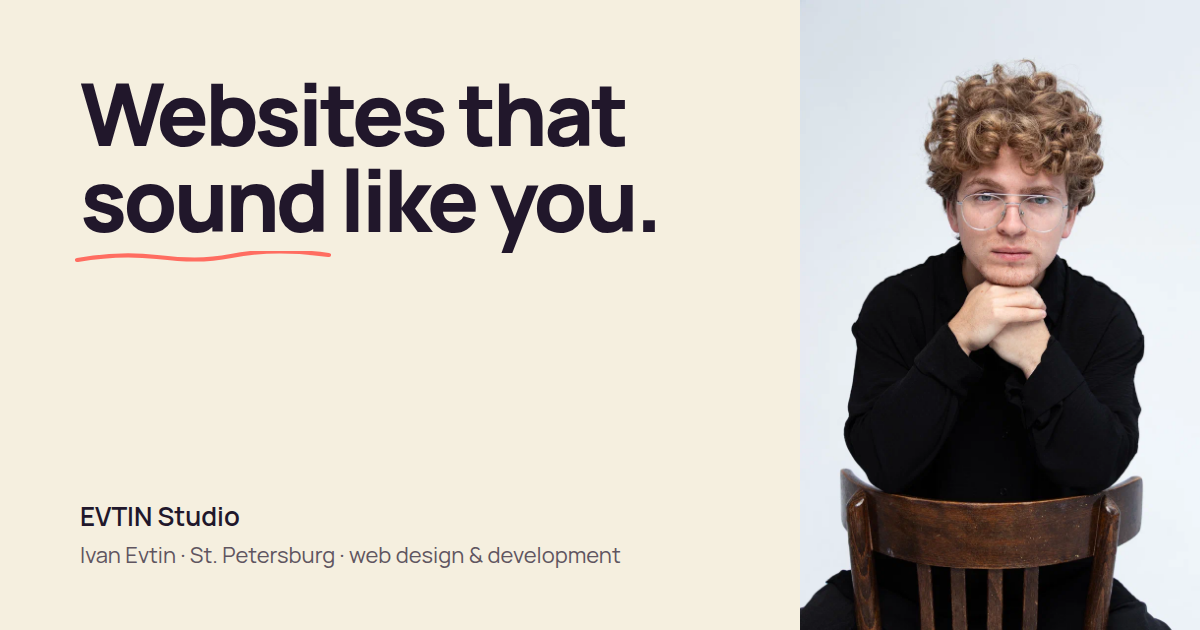
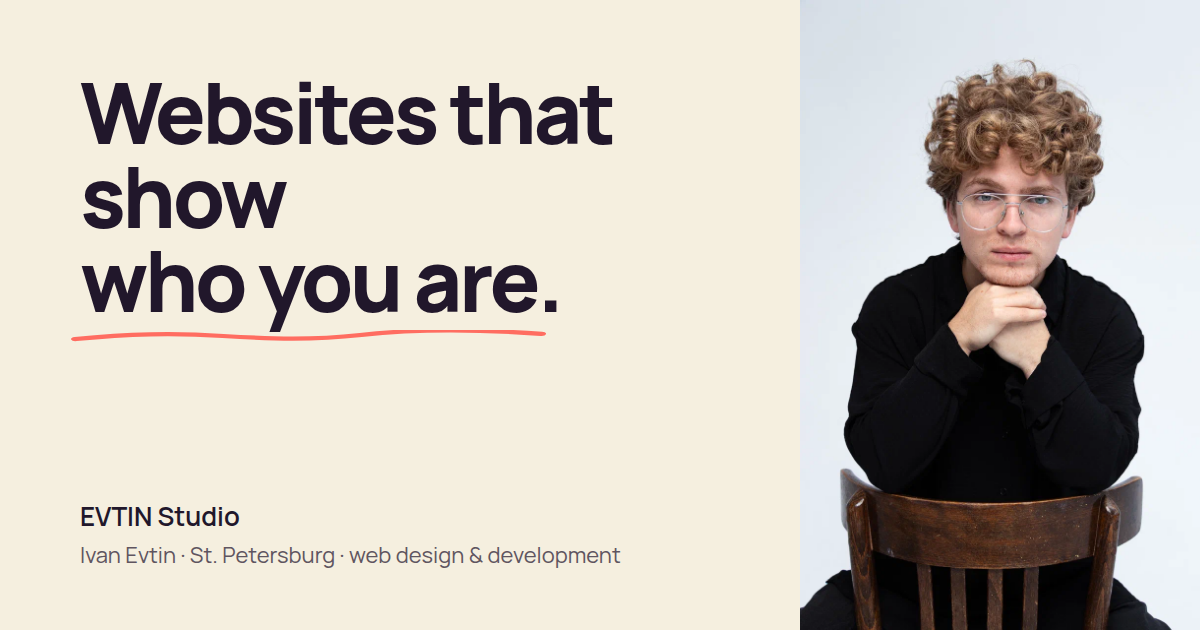
fix(copy): new hero line, plain musician line, «Смотреть работы»
Hero «Сайты, по которым сразу понятно, кто вы» / "Websites that show who
you are" replaces «звучат как вы» (Ivan: sounds unnatural). Musician line
is Ivan's: «Также я музыкант — поющий пианист». Shopping centres removed.
OG image, CLAUDE.md and HANDOFF updated.

Claude-Session: https://claude.ai/code/session_013nKPEujBUBLhoQc3pxbLML

Changed region(s): [[0.0617, 0.2714, 0.555, 0.5429], [0.0925, 0.1206, 0.5242, 0.2413]]

diff --git a/script.js b/script.js
@@ -5,10 +5,10 @@ en:{
 "nav.skip":"Skip to content","nav.aria":"Main menu","nav.burger":"Menu",
 "nav.work":"Work","nav.pricing":"Prices","nav.about":"About","nav.contact":"Message me",
 "hero.date":"St. Petersburg, October 2026",
-"hero.title":"Websites that <span class=\"scrib\">sound</span> like you.",
-"hero.p1":"Hi, I'm Ivan Evtin. I make websites for people and small brands. I want someone to open your site and understand within a minute who you are and why they should write to you, not someone else.",
-"hero.p2":"I'm also a musician. I sing and play piano at the same time, at restaurants, shopping centres and private events. That's where the \"sound\" in the headline comes from.",
-"hero.cta":"Message me","hero.link":"See what I've made",
+"hero.title":"Websites that show <span class=\"scrib\">who you are</span>.",
+"hero.p1":"Hi, I'm Ivan Evtin. I make websites for people and small brands. I want someone to open your site and see within a minute why they should write to you, not someone else.",
+"hero.p2":"I'm also a musician: a singing pianist.",
+"hero.cta":"Message me","hero.link":"See my work",
 "hero.price":"Landing page from <span data-eur=\"300\" data-rub=\"30000\">€300</span>, full website from <span data-eur=\"500\" data-rub=\"50000\">€500</span>.",
 "hero.alt":"Ivan Evtin, web designer and developer",
 "hero.cap":"That's me. Yes, the curls are real.",
@@ -39,7 +39,7 @@ en:{
 "process.note":"A landing page usually takes 2–3 weeks, a full site 4–6. It goes fastest when the copy and photos are ready in advance.",
 "about.title":"A bit about me",
 "about.alt":"Ivan Evtin sitting on the floor next to a chair",
-"about.one":"I live in St. Petersburg. I sing and play piano at the same time, and I perform at restaurants, shopping centres and private events. I'm easy to spot: curly hair and white glasses.",
+"about.one":"I live in St. Petersburg. I sing and play piano at the same time, and I perform at restaurants and private events. I'm easy to spot: curly hair and white glasses.",
 "about.two":"I make websites the way I make songs: the main thing goes first, anything extra goes.",
 "about.three":"EVTIN Studio is just me. You talk to me about the job, and I'm the one who does it. If something goes wrong, I'm the one who answers for it too.",
 "about.now":"<strong>Right now:</strong> launching the studio and taking on my first projects.",
@@ -66,10 +66,10 @@ ru:{
 "nav.skip":"К содержанию","nav.aria":"Главное меню","nav.burger":"Меню",
 "nav.work":"Работы","nav.pricing":"Цены","nav.about":"Обо мне","nav.contact":"Написать мне",
 "hero.date":"Петербург, октябрь 2026",
-"hero.title":"Сайты, которые <span class=\"scrib\">звучат</span> как вы.",
-"hero.p1":"Привет, я Иван Евтин. Делаю сайты для людей и небольших брендов. Хочу, чтобы человек открыл ваш сайт и за минуту понял, кто вы и почему стоит написать именно вам.",
-"hero.p2":"Ещё я музыкант: пою и играю на пианино одновременно, выступаю в ресторанах, торговых центрах и на частных мероприятиях. Отсюда и «звучат» в заголовке.",
-"hero.cta":"Написать мне","hero.link":"Посмотреть, что я сделал",
+"hero.title":"Сайты, по которым сразу понятно, <span class=\"scrib\">кто вы</span>.",
+"hero.p1":"Привет, я Иван Евтин. Делаю сайты для людей и небольших брендов. Хочу, чтобы человек открыл ваш сайт и за минуту понял, почему написать стоит именно вам.",
+"hero.p2":"Также я музыкант — поющий пианист.",
+"hero.cta":"Написать мне","hero.link":"Смотреть работы",
 "hero.price":"Лендинг от <span data-eur=\"300\" data-rub=\"30000\">30 000 ₽</span>, сайт от <span data-eur=\"500\" data-rub=\"50000\">50 000 ₽</span>.",
 "hero.alt":"Иван Евтин, веб-дизайнер и разработчик",
 "hero.cap":"Это я. Да, кудри настоящие.",
@@ -100,7 +100,7 @@ ru:{
 "process.note":"Лендинг обычно занимает 2–3 недели, сайт 4–6. Быстрее всего, когда тексты и фото готовы заранее.",
 "about.title":"Немного обо мне",
 "about.alt":"Иван Евтин сидит на полу рядом со стулом",
-"about.one":"Я живу в Петербурге. Пою и играю на пианино одновременно, выступаю в ресторанах, торговых центрах и на частных мероприятиях. Узнать меня легко: кудри и белые очки.",
+"about.one":"Я живу в Петербурге. Пою и играю на пианино одновременно, выступаю в ресторанах и на частных мероприятиях. Узнать меня легко: кудри и белые очки.",
 "about.two":"Сайты делаю так же, как песни: главное — в начало, лишнее — убрать.",
 "about.three":"EVTIN Studio — это я. Задачу вы обсуждаете со мной, и делаю её тоже я. Если что-то пойдёт не так, отвечаю я.",
 "about.now":"<strong>Сейчас:</strong> запускаю студию и беру первые проекты.",

diff --git a/index.html b/index.html
@@ -5,7 +5,7 @@
 <meta name="description" content="Independent web design studio of Ivan Evtin. Landing pages from €300, multi-page websites from €500. I do everything myself, from structure to code.">
 <meta name="theme-color" content="#21172b">
 <meta property="og:type" content="website"><meta property="og:site_name" content="EVTIN Studio"><meta property="og:locale" content="en_US"><meta property="og:locale:alternate" content="ru_RU"><meta property="og:title" content="EVTIN Studio — Ivan Evtin"><meta property="og:description" content="Distinctive websites for people and small brands. Strategy, design and code by one person."><meta property="og:url" content="https://evtinstudio.netlify.app/">
-<meta property="og:image" content="https://evtinstudio.netlify.app/assets/og.png"><meta property="og:image:width" content="1200"><meta property="og:image:height" content="630"><meta property="og:image:alt" content="EVTIN Studio: Websites that sound like you. Ivan Evtin, web design and development">
+<meta property="og:image" content="https://evtinstudio.netlify.app/assets/og.png"><meta property="og:image:width" content="1200"><meta property="og:image:height" content="630"><meta property="og:image:alt" content="EVTIN Studio: Websites that show who you are. Ivan Evtin, web design and development">
 <meta name="twitter:card" content="summary_large_image"><meta name="twitter:image" content="https://evtinstudio.netlify.app/assets/og.png">
 <link rel="canonical" href="https://evtinstudio.netlify.app/">
 <title>EVTIN Studio — Web Design &amp; Landing Pages by Ivan Evtin</title>
@@ -31,10 +31,10 @@
 <section class="intro">
 <div class="intro-text">
 <p class="dateline" data-i18n="hero.date">St. Petersburg, October 2026</p>
-<h1 data-i18n="hero.title">Websites that <span class="scrib">sound</span> like you.</h1>
-<p class="lead" data-i18n="hero.p1">Hi, I'm Ivan Evtin. I make websites for people and small brands. I want someone to open your site and understand within a minute who you are and why they should write to you, not someone else.</p>
-<p data-i18n="hero.p2">I'm also a musician. I sing and play piano at the same time, at restaurants, shopping centres and private events. That's where the "sound" in the headline comes from.</p>
-<p class="actions"><a class="btn" href="#contact" data-i18n="hero.cta">Message me</a><a class="textlink" href="#work" data-i18n="hero.link">See what I've made</a></p>
+<h1 data-i18n="hero.title">Websites that show <span class="scrib">who you are</span>.</h1>
+<p class="lead" data-i18n="hero.p1">Hi, I'm Ivan Evtin. I make websites for people and small brands. I want someone to open your site and see within a minute why they should write to you, not someone else.</p>
+<p data-i18n="hero.p2">I'm also a musician: a singing pianist.</p>
+<p class="actions"><a class="btn" href="#contact" data-i18n="hero.cta">Message me</a><a class="textlink" href="#work" data-i18n="hero.link">See my work</a></p>
 <p class="price-line" data-i18n="hero.price">Landing page from <span data-eur="300" data-rub="30000">€300</span>, full website from <span data-eur="500" data-rub="50000">€500</span>.</p>
 </div>
 <figure class="intro-photo">
@@ -91,7 +91,7 @@
 <figure class="about-photo"><img src="assets/ivan-02.webp" alt="Ivan Evtin sitting on the floor next to a chair" data-i18n-alt="about.alt" width="853" height="1280" loading="lazy"></figure>
 <div class="about-text">
 <h2 data-i18n="about.title">A bit about me</h2>
-<p data-i18n="about.one">I live in St. Petersburg. I sing and play piano at the same time, and I perform at restaurants, shopping centres and private events. I'm easy to spot: curly hair and white glasses.</p>
+<p data-i18n="about.one">I live in St. Petersburg. I sing and play piano at the same time, and I perform at restaurants and private events. I'm easy to spot: curly hair and white glasses.</p>
 <p data-i18n="about.two">I make websites the way I make songs: the main thing goes first, anything extra goes.</p>
 <p data-i18n="about.three">EVTIN Studio is just me. You talk to me about the job, and I'm the one who does it. If something goes wrong, I'm the one who answers for it too.</p>
 <p class="now" data-i18n="about.now"><strong>Right now:</strong> launching the studio and taking on my first projects.</p>

diff --git a/styles.css b/styles.css
@@ -32,7 +32,7 @@ h2{font-size:clamp(32px,4.2vw,54px);letter-spacing:-.03em;margin-bottom:28px}
 .btn:hover{background:#3a2c47}
 
 .intro{display:grid;grid-template-columns:minmax(0,1.3fr) minmax(0,.7fr);gap:6vw;align-items:center;padding-top:clamp(32px,4vw,64px);padding-bottom:clamp(64px,8vw,120px);max-width:1440px;margin:0 auto}
-.intro h1{font-size:clamp(44px,6.4vw,92px);letter-spacing:-.04em;line-height:1;max-width:11ch;margin:6px 0 36px}
+.intro h1{font-size:clamp(40px,5.6vw,84px);letter-spacing:-.04em;line-height:1;max-width:13ch;margin:6px 0 36px}
 .scrib{position:relative;white-space:nowrap}
 .scrib::after{content:"";position:absolute;left:-2%;right:-2%;bottom:-.08em;height:.16em;background:var(--scrib) center/100% 100% no-repeat}
 .intro p{max-width:34em}

diff --git a/CLAUDE.md b/CLAUDE.md
@@ -39,7 +39,7 @@
 - Файлы: `index.html` / `styles.css` / `script.js` — главная; `concept-noir`, `concept-0642`, `concept-atelier07` (.html + .i18n.js + .js) — три концепта; общие `concept.css` / `concept.js`; шрифты лежат локально в `fonts/`; заголовки безопасности и CSP — в `netlify.toml`.
 - Перед работой прочитай `HANDOFF.md`, `README.md` и `docs/ivan-profile.md`. Полный разбор блога лежит в `docs/ivan-blog-review.md`, кит для Instagram — в `docs/instagram/README.md`. В конце сессии обнови `HANDOFF.md`.
 - Сайт по умолчанию на английском, русский включается переключателем RU/EN.
-- Позиционирование: «независимая студия с агентским мышлением, без агентских накладных расходов». Hero: «Websites that sound like you» / «Сайты, которые звучат как вы». Один реальный кейс плюс три концепта с пометкой Concept 01–03.
+- Позиционирование: «независимая студия с агентским мышлением, без агентских накладных расходов». Hero (Иван, 21.10.2026: старый «Сайты, которые звучат как вы» звучит неестественно): «Websites that show who you are» / «Сайты, по которым сразу понятно, кто вы». Один реальный кейс плюс три концепта с пометкой Concept 01–03.
 - Палитра студии: plum #21172b, paper #f5efdf, lime #b9ff73, coral #ff6d61; шрифты Manrope + DM Mono. Палитру музыканта (чёрный/белый/графит + красный, розовый, горчичный; винтажный коллаж) со студией не смешивать.
 
 ## Неизменные факты

diff --git a/HANDOFF.md b/HANDOFF.md
@@ -99,6 +99,7 @@ Ivan's brief: «пересобрать мой сайт, чтобы он выгл
 - Palette and fonts kept (plum/paper/lime/coral, Manrope); DM Mono is no longer used on the home page. Lime is used as a highlighter, coral only for the hand-drawn marks; coral-ink #b23a2e for link underlines (contrast).
 - Copy: first person, «вы», plain words; Ivan's own lines kept verbatim (hero, concept descriptions, «Сайты делаю так же, как песни…»). Facts only from CLAUDE.md/profile/musician site (Avito reviews are on evtinivan.netlify.app).
 - Checks: Playwright 5 pages × 320/375/768/1440 × EN/RU with production CSP, no overflow/JS errors; Lighthouse home mobile 99/100/100/100, desktop 100/100/100/100; ECC code-reviewer (no critical), ECC a11y (fixed: link underline contrast, input borders, FAQ +/– read aloud, skip target, list roles, required-fields note, menu reset on resize); copy proofreader fixes applied.
+- Hero changed (Ivan, 2026-10-21: «Сайты, которые звучат как вы» sounds unnatural) → «Сайты, по которым сразу понятно, кто вы» / "Websites that show who you are".
 - Merged? No: left as a PR with a Netlify preview for Ivan to look at first.
 
 ## Next steps
